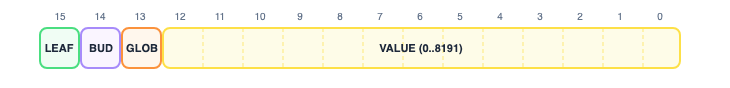
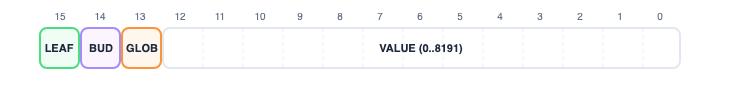
Update assets

Changed region(s): [[0.211, 0.6818, 0.9342, 0.7955], [0.211, 0.2955, 0.9342, 0.4091]]

diff --git a/docs/demos/ClassNameTrieDemo.html b/docs/demos/ClassNameTrieDemo.html
@@ -36,7 +36,7 @@
     --cbg-jump:         rgba(147,197,253,0.15);
     --cbg-segment:      transparent;
     --cbg-match:        rgba(20,100,30,0.9);
-    --cbg-fail:         rgba(229,115,115,0.35);
+    --cbg-fail:         rgba(229,115,115,0.55);
     --cbg-consumed:     rgba(201,185,154,0.30);
     --code-bg:          rgba(79,195,247,0.12);
   }
@@ -70,7 +70,7 @@
     --cbg-jump:         #eff6ff;
     --cbg-segment:      #ffffff;
     --cbg-match:        rgba(46,125,79,0.45);
-    --cbg-fail:         rgba(192,48,48,0.2);
+    --cbg-fail:         rgba(192,48,48,0.35);
     --cbg-consumed:     rgba(160,140,100,0.25);
     --code-bg:          rgba(0,102,187,0.06);
   }
@@ -290,7 +290,7 @@
   .key-cell.match-glow { box-shadow: 0 0 0 1px var(--match), 0 0 10px var(--match); }
   .cell.read { z-index: 2; }
   .cell.match-success, .key-cell.match-success { background: var(--cbg-match); border-color: var(--match); }
-  .cell.match-fail    { background: var(--cbg-fail);  border-color: var(--nomatch); }
+  .cell.match-fail    { background: var(--cbg-fail);  border-color: var(--nomatch); box-shadow: 0 0 0 1px var(--nomatch), 0 0 10px var(--nomatch); }
   .cell.match-success .val, .cell.match-glow .val,
   .key-cell.match-success, .key-cell.match-glow,
   .key-cell.consumed { color: var(--text); }